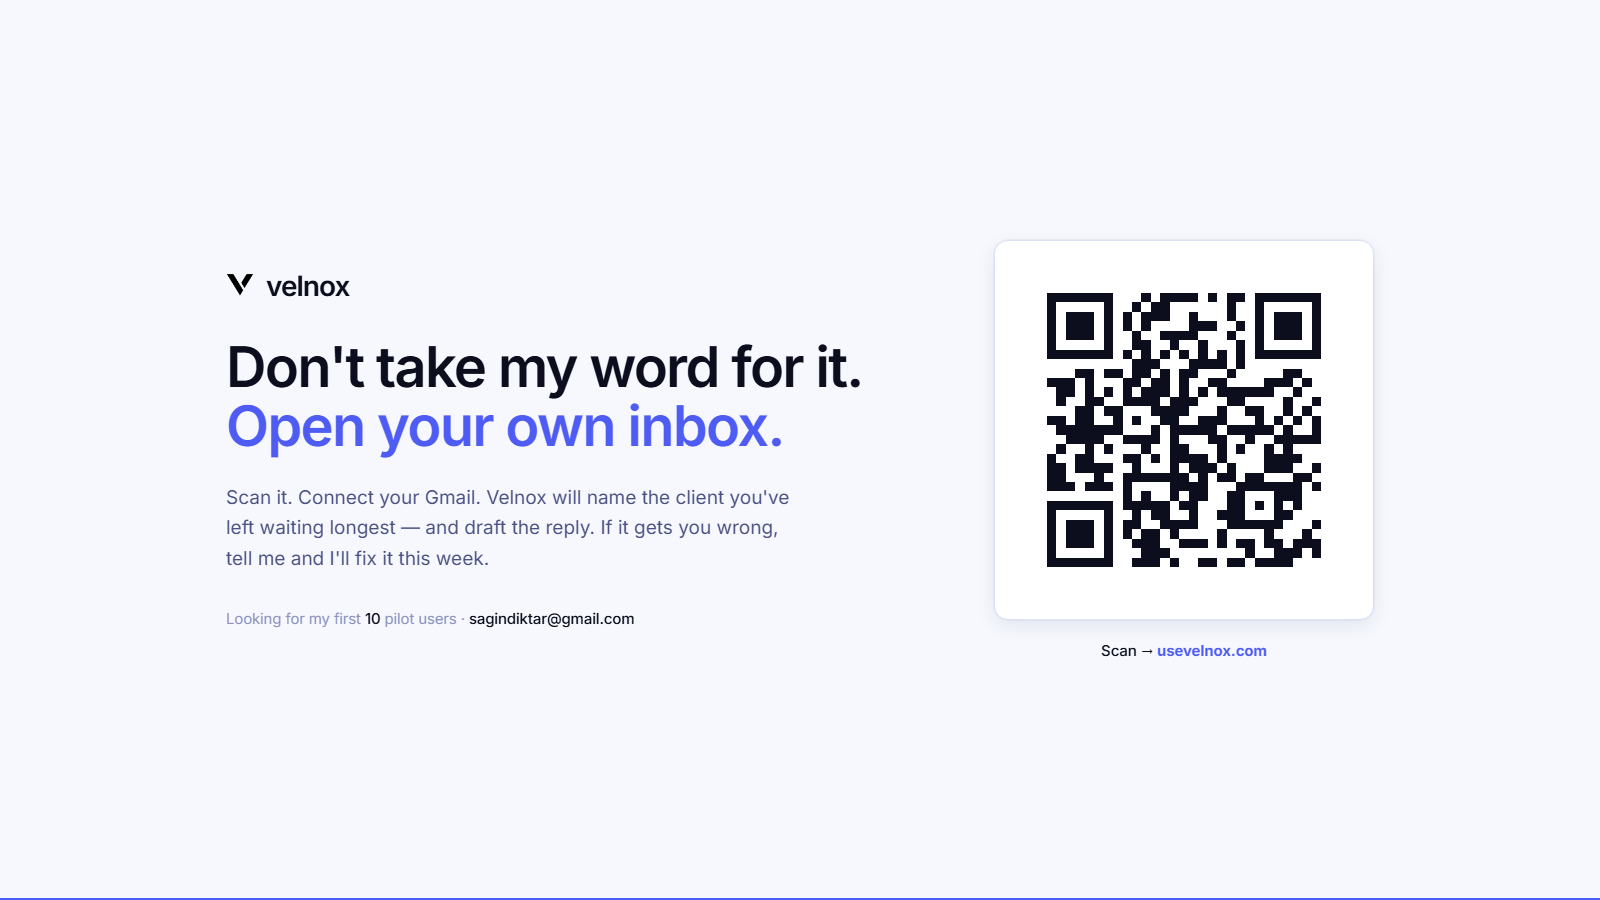
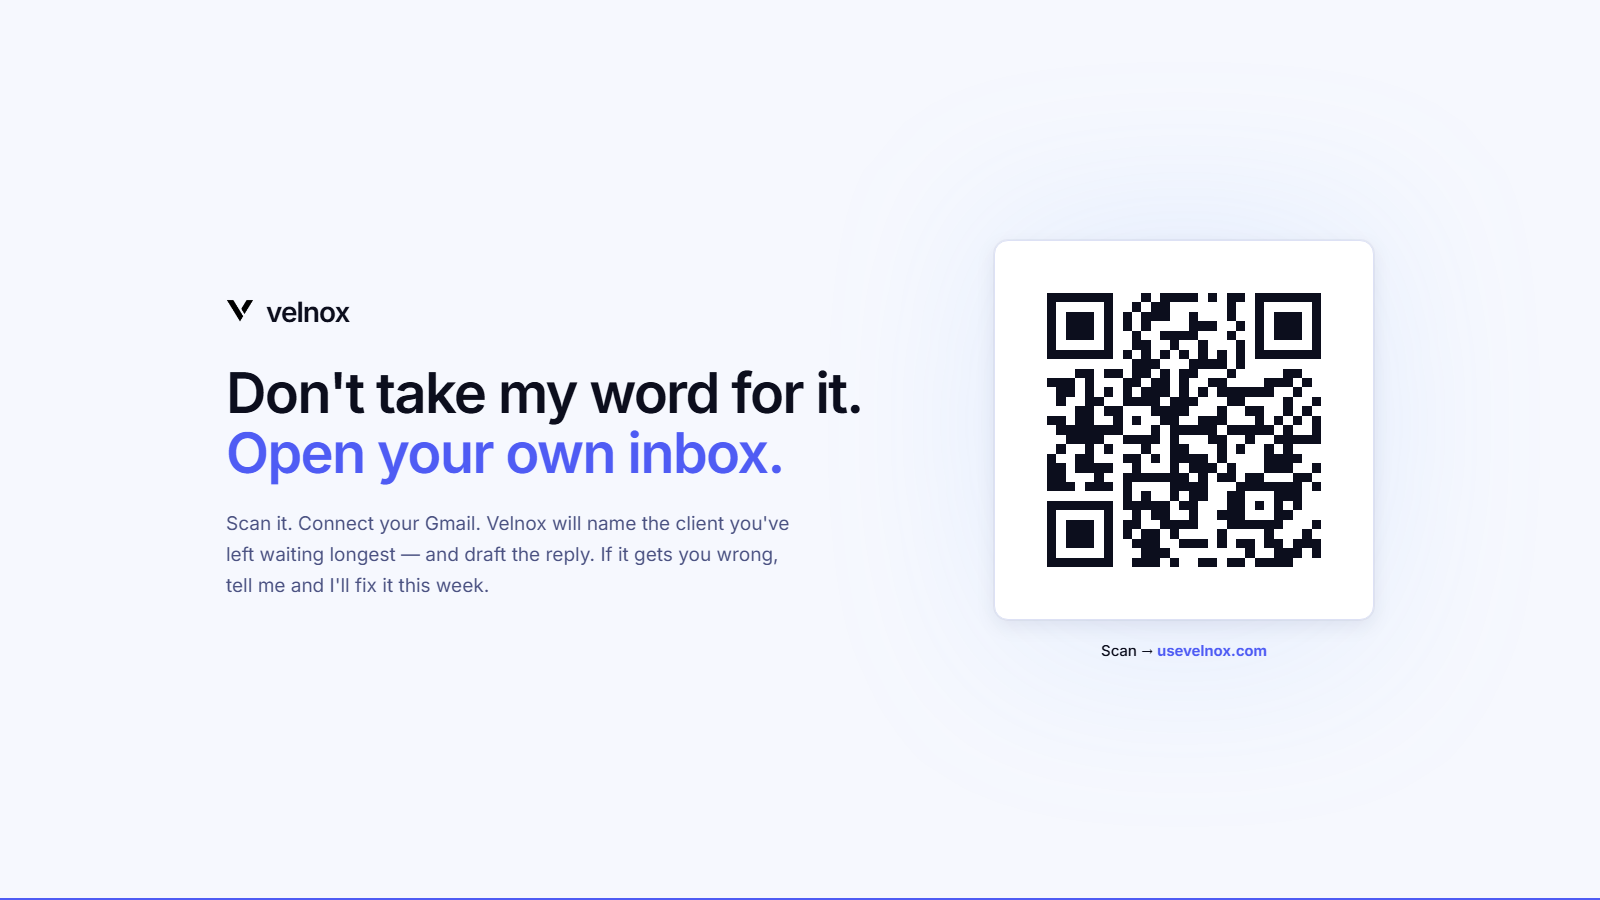
Rebuild slide 2's diagram; give the deck a recurring visual motif
Slide 2 read as neither screenshot nor diagram — five labelled rows, an ellipsis
and a hot row, all of which had to be parsed before the point arrived. It now
argues by quantity: 26 anonymous grey rows above one red one. Nothing above the
red row says anything, because the point is that none of it is worth saying
anything about, and the only words in the pile are on the row that matters.
Rows are script-built from a fixed width table (no Math.random, so the exported
PNGs and the live page can't drift apart).

Backgrounds: rather than a different decoration per slide — which is how decks
come to look like templates — the skyline already on slide 1 becomes the deck's
one recurring motif, returning at a different crop, scale, opacity and facing.
Slide 2 gets it low and pale under the pile; slide 5 gets it mirrored behind the
founder, where it reads as the Astana the role line already names. Slides 3 and
6 get HeroMedia's blue wash behind the artefact each is about. Both elements are
lifted from the site, not invented for the deck.

The skyline is now built per instance because its gradient/pattern/filter ids
must be unique; two copies sharing an id renders the second against the first's
defs. The wash needed its own stops: HeroMedia fades to zero at 76%, which is
right behind a dark video but terminates as a visible circle against #F6F8FE.

Also drops, per review: "Oldest: 12 days", "21 more — newsletters…", "Roughly 1
[…]

Changed region(s): [[0.125, 0.3111, 0.5312, 0.6533], [0.1562, 0.6844, 0.4062, 0.7156]]

diff --git a/deck/index.html b/deck/index.html
@@ -158,55 +158,73 @@ html, body {
 /* ═══ Slide 1 — title ══════════════════════════════════════════════════════ */
 #s1 { display: grid; place-items: center; text-align: center; }
 #s1 .inner { position: relative; z-index: 1; max-width: 1040px; padding-bottom: 60px; }
-.skyline { position: absolute; left: 0; right: 0; bottom: 0; height: 400px; pointer-events: none; }
+.skyline { position: absolute; left: 0; right: 0; bottom: 0; height: 400px; pointer-events: none; z-index: 0; }
 .skyline svg { display: block; width: 100%; height: 100%; }
 
-/* ═══ Slide 2 — problem ════════════════════════════════════════════════════ */
+/* The motif's other appearances. Slide 1 establishes the city at full height;
+   these are the same skyline seen from further off. Different height = different
+   crop (preserveAspectRatio slice), and slide 5 is mirrored, so no two slides
+   show the same picture.
+   --- slide 2: low and pale, so the pile has somewhere to sit
+   --- slide 5: mirrored and paler still, behind the founder — Astana, the city
+       the role line already names */
+#s2 .skyline { height: 210px; opacity: 0.5; }
+#s5 .skyline { height: 300px; opacity: 0.34; transform: scaleX(-1); }
+
+/* The site's ambience (HeroMedia.tsx), reused as slide furniture rather than as
+   decoration invented for the deck: it is what already sits behind the product
+   on the landing page. Slide 4 has it around the video; 3 and 6 get it behind
+   the artefact the slide is about. */
+/* HeroMedia's stops run to zero at 76%, which is right behind a dark video and
+   wrong here: against #F6F8FE the residual tint is still perceptible at that
+   stop, so the falloff terminates as a visible circle rather than as air. Peak
+   halved and the fade stretched to 100% so there is nowhere for an edge to be. */
+.wash {
+  position: absolute;
+  z-index: 0; pointer-events: none;
+  background: radial-gradient(72% 70% at 50% 45%,
+    rgba(79,92,244,0.15), rgba(96,165,250,0.08) 45%, rgba(124,192,255,0) 100%);
+  filter: blur(64px);
+}
+
+/* ═══ Slide 2 — problem ════════════════════════════════════════════════════
+   The earlier version was five labelled rows, an ellipsis and one hot row. It
+   read as neither screenshot nor diagram — you had to parse it to get the joke.
+   This one argues by quantity instead of by words: 26 anonymous grey rows, one
+   red. Nothing above the red row says anything, because the whole point is that
+   none of it is worth saying anything about. The only words in the pile are on
+   the row that matters. */
 #s2 { padding: 0 110px; display: flex; flex-direction: column; justify-content: center; }
-.stack {
-  width: 760px;
+.pile {
+  width: 640px;
   border: 1px solid var(--border);
   border-radius: var(--radius-lg);
   background: var(--bg-surface);
   overflow: hidden;
   box-shadow: var(--shadow-md);
 }
-.stack-head {
+.pile-head {
   display: flex; align-items: center; justify-content: space-between;
-  padding: 13px 18px;
+  padding: 12px 18px;
   border-bottom: 1px solid var(--border-light);
   background: var(--bg-subtle);
 }
-.row {
-  display: flex; align-items: center; gap: 13px;
-  padding: 12px 18px;
-  border-bottom: 1px solid var(--border-light);
-}
-.dot { width: 26px; height: 26px; border-radius: 100px; background: var(--bg-elevated); flex-shrink: 0; }
-.row-t { flex: 1; font-size: 14.5px; color: var(--text-muted); font-weight: 500; }
-.row-x { font-size: 12.5px; color: var(--text-muted); font-variant-numeric: tabular-nums; }
+.pile-rows { padding: 7px 0 3px; }
+.prow { display: flex; align-items: center; gap: 11px; padding: 4px 18px; }
+.prow .d { width: 12px; height: 12px; border-radius: 100px; background: var(--bg-elevated); flex-shrink: 0; }
+.prow .b { height: 5px; border-radius: 100px; background: var(--bg-elevated); }
 
-.gap {
-  padding: 11px 18px;
-  font-size: 12.5px;
-  color: var(--text-muted);
-  border-bottom: 1px solid var(--border-light);
-  background: repeating-linear-gradient(
-    -45deg, transparent, transparent 6px,
-    rgba(141,147,190,0.05) 6px, rgba(141,147,190,0.05) 12px
-  );
-}
-
-/* The one loud row. Everything above it is deliberately quiet so this lands. */
-.row-hot {
+/* The one loud row. Everything above it is deliberately mute so this lands. */
+.prow-hot {
   display: flex; align-items: center; gap: 13px;
-  padding: 17px 18px;
+  padding: 16px 18px;
   background: var(--hot-dim);
+  border-top: 1px solid var(--hot-border);
   border-left: 3px solid var(--hot);
 }
 .dot-hot { width: 30px; height: 30px; border-radius: 100px; background: var(--hot); opacity: 0.85; flex-shrink: 0; }
-.row-hot .n { display: block; font-size: 16px; font-weight: 600; color: var(--text-primary); }
-.row-hot .s { display: block; font-size: 13.5px; color: var(--text-secondary); margin-top: 3px; }
+.prow-hot .n { display: block; font-size: 16px; font-weight: 600; color: var(--text-primary); }
+.prow-hot .s { display: block; font-size: 13.5px; color: var(--text-secondary); margin-top: 3px; }
 .chip-hot {
   font-size: 12px; font-weight: 600; color: var(--hot);
   background: var(--bg-surface);
@@ -519,32 +537,7 @@ html, body {
 
   <!-- ════ 1 · Title ════════════════════════════════════════════════════ -->
   <section class="slide" id="s1" data-active>
-    <div class="skyline" aria-hidden="true">
-      <svg width="100%" height="100%" viewBox="0 0 1600 400" preserveAspectRatio="xMidYMax slice" xmlns="http://www.w3.org/2000/svg">
-        <defs>
-          <pattern id="skyWin" width="14" height="20" patternUnits="userSpaceOnUse">
-            <rect x="4" y="5" width="4" height="9" fill="#FFFFFF" opacity="0.34" />
-          </pattern>
-          <linearGradient id="skyHazeTop" x1="0" y1="0" x2="0" y2="1">
-            <stop offset="0" stop-color="#F6F8FE" stop-opacity="1" />
-            <stop offset="1" stop-color="#F6F8FE" stop-opacity="0" />
-          </linearGradient>
-          <linearGradient id="skyHazeBase" x1="0" y1="0" x2="0" y2="1">
-            <stop offset="0" stop-color="#F6F8FE" stop-opacity="0" />
-            <stop offset="0.72" stop-color="#F6F8FE" stop-opacity="0.9" />
-            <stop offset="1" stop-color="#F6F8FE" stop-opacity="1" />
-          </linearGradient>
-          <filter id="skyBlur" x="-4%" y="-4%" width="108%" height="108%">
-            <feGaussianBlur stdDeviation="1.6" />
-          </filter>
-        </defs>
-        <path id="far" fill="#E4E8F8" filter="url(#skyBlur)" />
-        <path id="near1" fill="#D9DEF3" />
-        <path id="near2" fill="url(#skyWin)" />
-        <rect x="0" y="150" width="1600" height="130" fill="url(#skyHazeTop)" opacity="0.55" />
-        <rect x="0" y="268" width="1600" height="132" fill="url(#skyHazeBase)" />
-      </svg>
-    </div>
+    <div class="skyline" data-sky aria-hidden="true"></div>
 
     <div class="inner">
       <div class="r brand" style="gap:14px; margin-bottom:44px;">
@@ -565,29 +558,26 @@ html, body {
 
   <!-- ════ 2 · Problem ══════════════════════════════════════════════════ -->
   <section class="slide" id="s2">
-    <h2 class="r display-title" style="font-size:56px; margin-bottom:44px;">
+    <div class="skyline" data-sky aria-hidden="true"></div>
+
+    <h2 class="r display-title" style="font-size:56px; margin-bottom:40px; position:relative; z-index:1;">
       Gmail sorts by time. <span class="muted-tail">Your clients don't.</span>
     </h2>
 
-    <div class="r" style="display:grid; grid-template-columns:720px 1fr; gap:80px; align-items:center;">
+    <div class="r" style="display:grid; grid-template-columns:640px 1fr; gap:90px; align-items:center; position:relative; z-index:1;">
 
-      <!-- Diagram. NOT a screenshot: no Gmail chrome, no real people, archetypal
-           rows only. It illustrates the mechanism, it does not claim to be data. -->
-      <div class="stack">
-        <div class="stack-head">
-          <span class="label">Sorted by date</span>
-          <span class="label" style="color:var(--text-muted); opacity:0.7;">newest first</span>
+      <!-- Diagram, not a screenshot: no Gmail chrome, no real people. It shows a
+           mechanism; it does not claim to be data. Rows are injected by script —
+           26 hand-tuned widths, no randomness, so every render is identical. -->
+      <div class="pile">
+        <div class="pile-head">
+          <span class="label">Your inbox, sorted by date</span>
+          <span class="label" style="opacity:0.7;">newest first ↓</span>
         </div>
 
-        <div class="row"><span class="dot"></span><span class="row-t">Newsletter</span><span class="row-x">2 min</span></div>
-        <div class="row"><span class="dot"></span><span class="row-t">Calendar invite</span><span class="row-x">18 min</span></div>
-        <div class="row"><span class="dot"></span><span class="row-t">Promotion</span><span class="row-x">1 hr</span></div>
-        <div class="row"><span class="dot"></span><span class="row-t">Receipt</span><span class="row-x">3 hr</span></div>
-        <div class="row"><span class="dot"></span><span class="row-t">Social notification</span><span class="row-x">5 hr</span></div>
+        <div class="pile-rows" data-pile></div>
 
-        <div class="gap">21 more — newsletters, promotions, receipts</div>
-
-        <div class="row-hot">
+        <div class="prow-hot">
           <span class="dot-hot"></span>
           <span style="flex:1;">
             <span class="n">The client who pays you</span>
@@ -600,7 +590,6 @@ html, body {
       <div class="proof">
         <div class="k">127</div>
         <div class="v">overdue replies in my own inbox,<br />right now.</div>
-        <div class="w">Oldest: 12 days.</div>
       </div>
 
     </div>
@@ -624,7 +613,6 @@ html, body {
           <b>112 signed up</b>
         </div>
         <div class="conv-bar"><i></i></div>
-        <div class="conv-foot">Roughly 1 in 5 who saw the page made an account.</div>
       </div>
 
       <div class="r minor">
@@ -633,6 +621,8 @@ html, body {
         <div><div class="v">1</div><div class="k">paying · first $12</div></div>
       </div>
     </div>
+
+    <div class="wash" style="left:600px; right:-40px; top:60px; bottom:60px;" aria-hidden="true"></div>
 
     <!-- The page those 500 visitors landed on, shot from production at 2×.
          The ring sits on the real CTA they really clicked. -->
@@ -665,7 +655,9 @@ html, body {
 
   <!-- ════ 5 · Founder ══════════════════════════════════════════════════ -->
   <section class="slide" id="s5">
-    <div class="r portrait">
+    <div class="skyline" data-sky aria-hidden="true"></div>
+
+    <div class="r portrait" style="z-index:1;">
       <img id="founder-img" src="founder.jpg" alt="Amirkhan Sagyndyk" style="display:none;" />
       <div class="slot" id="founder-slot">
         <span class="mono">V</span>
@@ -673,7 +665,7 @@ html, body {
       </div>
     </div>
 
-    <div>
+    <div style="position:relative; z-index:1;">
       <h2 class="r display-title" style="font-size:46px; margin-bottom:7px;">Amirkhan Sagyndyk</h2>
       <p class="r" style="font-size:17px; color:var(--text-secondary); margin-bottom:32px;">
         Founder, Velnox · Astana, Kazakhstan
@@ -713,7 +705,6 @@ html, body {
             Zero → Legend, Dota 2 <span class="m">from unranked</span>
           </li>
         </ul>
-        <p class="s5-note">Same stubbornness that got Velnox into production.</p>
       </div>
     </div>
   </section>
@@ -737,23 +728,20 @@ html, body {
         I'll fix it this week.
       </p>
 
-      <p class="r s6-mail">
-        Looking for my first <b id="cnt">10</b> pilot users ·
-        <b>sagindiktar@gmail.com</b>
-      </p>
     </div>
 
     <!-- Real QR, real destination. Generated with `npx qrcode -e H` and inlined
          so the deck stays one self-contained file that works with no network. -->
-    <div class="r">
-      <div class="qr-card">
+    <div class="r" style="position:relative;">
+      <div class="wash" style="inset:-70px -60px;" aria-hidden="true"></div>
+      <div class="qr-card" style="position:relative; z-index:1;">
         <div class="qr-ring" aria-hidden="true"></div>
         <svg viewBox="0 0 37 37" shape-rendering="crispEdges" xmlns="http://www.w3.org/2000/svg" role="img" aria-label="QR code to usevelnox.com">
           <path fill="#FFFFFF" d="M0 0h37v37H0z"/>
           <path stroke="#0C0E1D" d="M4 4.5h7m3 0h1m1 0h4m1 0h1m1 0h2m1 0h7M4 5.5h1m5 0h1m2 0h1m1 0h2m6 0h1m2 0h1m5 0h1M4 6.5h1m1 0h3m1 0h1m1 0h1m1 0h3m2 0h1m3 0h1m2 0h1m1 0h3m1 0h1M4 7.5h1m1 0h3m1 0h1m1 0h1m1 0h1m4 0h3m2 0h1m1 0h1m1 0h3m1 0h1M4 8.5h1m1 0h3m1 0h1m2 0h1m2 0h4m3 0h1m2 0h1m1 0h3m1 0h1M4 9.5h1m5 0h1m2 0h2m2 0h1m2 0h1m3 0h1m1 0h1m5 0h1M4 10.5h7m1 0h1m1 0h1m1 0h1m1 0h1m1 0h1m1 0h1m1 0h1m1 0h7M13 11.5h3m3 0h4m1 0h1M7 12.5h2m1 0h2m1 0h2m1 0h1m1 0h2m3 0h1m5 0h2M4 13.5h3m1 0h1m3 0h2m1 0h2m1 0h1m2 0h2m4 0h3m1 0h1M5 14.5h2m1 0h1m1 0h1m1 0h1m1 0h3m1 0h1m1 0h1m1 0h6m2 0h1M5 15.5h1m2 0h2m2 0h4m1 0h3m3 0h2m4 0h1m2 0h1M7 16.5h2m1 0h2m3 0h4m3 0h1m2 0h2m2 0h1m1 0h1M4 17.5h2m1 0h2m2 0h1m1 0h1m2 0h2m2 0h3m3 0h1m1 0h1m1 0h1m1 0h1M5 18.5h7m3 0h1m1 0h5m1 0h5m1 0h1m2 0h1M6 19.5h4m2 0h4m1 0h1m3 0h2m2 0h1m2 0h5M5 20.5h1m2 0h1m1 0h1m3 0h1m2 0h2m3 0h1m1 0h1m2 0h1m1 0h1M4 21.5h1m2 0h2m3 0h2m1 0h1m1 0h4m1 0h1m4 0h4M4 22.5h2m1 0h4m2 0h1m3 0h1m1 0h3m1 0h1m3 0h3m2 0h1M4 23.5h2m3 0h1m2 0h7m1 0h1m1 0h2m1 0h2m3 0h2M4 24.5h3m1 0h3m1 0h1m4 0h4m3 0h7m1 0h1M12 25.5h1m1 0h1m2 0h1m1 0h2m2 0h2m3 0h3M4 26.5h7m1 0h5m1 0h2m3 0h2m1 0h1m1 0h1m1 0h1M4 27.5h1m5 0h1m2 0h1m1 0h2m2 0h1m2 0h3m3 0h2M4 28.5h1m1 0h3m1 0h1m1 0h2m2 0h4m3 0h6m3 0h1M4 29.5h1m1 0h3m1 0h1m1 0h1m1 0h2m1 0h1m4 0h1m4 0h1m3 0h1M4 30.5h1m1 0h3m1 0h1m2 0h3m2 0h3m1 0h1m1 0h2m1 0h2m1 0h3M4 31.5h1m5 0h1m3 0h3m8 0h1m2 0h3m1 0h1M4 32.5h7m2 0h3m1 0h1m2 0h2m1 0h2m1 0h4"/>
         </svg>
       </div>
-      <p class="qr-cap">Scan → <b>usevelnox.com</b></p>
+      <p class="qr-cap" style="position:relative; z-index:1;">Scan → <b>usevelnox.com</b></p>
     </div>
   </section>
 
@@ -764,13 +752,52 @@ html, body {
 <div id="hint">← → to move · F for fullscreen</div>
 
 <script>
-/* Skyline paths — HeroSkyline.tsx, verbatim. Injected rather than inlined to
-   keep the markup above readable. */
-document.getElementById('far').setAttribute('d',
-  'M0 400 V269 h34 v-18 h27 v18 h21 V236 h38 v-24 h12 v24 h20 v33 h30 V218 h44 v51 h24 v-92 h10 l4 -14 4 14 h10 v92 h27 V241 h36 v-30 h26 v30 h18 v28 h33 V204 h12 v-26 h8 l3 -12 3 12 h8 v26 h12 v65 h29 v-38 h40 v38 h22 V222 h38 v47 h25 v-71 h30 v-19 h9 l3 -16 3 16 h9 v19 h30 v71 h24 V235 h42 v34 h20 v-56 h36 v56 h26 V214 h12 v-25 h7 l3 -13 3 13 h7 v25 h12 v55 h31 v-31 h40 v31 h21 V226 h38 v43 h26 v-64 h28 v-20 h8 l3 -15 3 15 h8 v20 h28 v64 h24 V241 h38 v28 h20 v-49 h34 v49 h27 V219 h44 v50 h22 v-31 h36 v31 h24 V245 h32 v24 h22 v-18 h30 v18 h21 v155 Z');
-var NEAR = 'M0 400 V308 h44 v-26 h34 v26 h20 V262 h12 v-16 h32 v16 h12 v46 h26 V241 h10 v-18 h44 v18 h10 v67 h30 v-38 h14 V216 h6 l3 -38 3 38 h6 v54 h14 v38 h26 V273 h48 v-42 h12 v42 h14 v35 h30 v-62 h10 v-25 h15 l3 -20 3 20 h15 v25 h10 v62 h24 v-27 h46 v27 h22 V254 h12 v-20 h40 v20 h12 v54 h30 v-83 h8 v-18 h13 l2 -30 2 30 h13 v18 h8 v83 h26 v-33 h52 v33 h20 V259 h12 v-24 h38 v24 h12 v49 h30 v-70 h10 v-22 h14 l3 -26 3 26 h14 v22 h10 v70 h24 v-30 h48 v30 h22 V251 h12 v-19 h42 v19 h12 v57 h28 v-40 h50 v40 h22 V266 h44 v42 h26 v-24 h40 v24 h20 v-30 h38 v122 Z';
-document.getElementById('near1').setAttribute('d', NEAR);
-document.getElementById('near2').setAttribute('d', NEAR);
+/* Skyline paths — HeroSkyline.tsx, verbatim. The deck's one recurring motif:
+   rather than give every slide a different decoration (which is how decks start
+   looking like templates), the same city returns at a different crop, scale,
+   opacity and facing on each slide it appears. One world, several angles.
+   Built by script per instance because the gradient/pattern/filter ids have to
+   be unique — two copies sharing an id is invalid and the second one renders
+   against the first one's defs. */
+var FAR_D = 'M0 400 V269 h34 v-18 h27 v18 h21 V236 h38 v-24 h12 v24 h20 v33 h30 V218 h44 v51 h24 v-92 h10 l4 -14 4 14 h10 v92 h27 V241 h36 v-30 h26 v30 h18 v28 h33 V204 h12 v-26 h8 l3 -12 3 12 h8 v26 h12 v65 h29 v-38 h40 v38 h22 V222 h38 v47 h25 v-71 h30 v-19 h9 l3 -16 3 16 h9 v19 h30 v71 h24 V235 h42 v34 h20 v-56 h36 v56 h26 V214 h12 v-25 h7 l3 -13 3 13 h7 v25 h12 v55 h31 v-31 h40 v31 h21 V226 h38 v43 h26 v-64 h28 v-20 h8 l3 -15 3 15 h8 v20 h28 v64 h24 V241 h38 v28 h20 v-49 h34 v49 h27 V219 h44 v50 h22 v-31 h36 v31 h24 V245 h32 v24 h22 v-18 h30 v18 h21 v155 Z';
+var NEAR_D = 'M0 400 V308 h44 v-26 h34 v26 h20 V262 h12 v-16 h32 v16 h12 v46 h26 V241 h10 v-18 h44 v18 h10 v67 h30 v-38 h14 V216 h6 l3 -38 3 38 h6 v54 h14 v38 h26 V273 h48 v-42 h12 v42 h14 v35 h30 v-62 h10 v-25 h15 l3 -20 3 20 h15 v25 h10 v62 h24 v-27 h46 v27 h22 V254 h12 v-20 h40 v20 h12 v54 h30 v-83 h8 v-18 h13 l2 -30 2 30 h13 v18 h8 v83 h26 v-33 h52 v33 h20 V259 h12 v-24 h38 v24 h12 v49 h30 v-70 h10 v-22 h14 l3 -26 3 26 h14 v22 h10 v70 h24 v-30 h48 v30 h22 V251 h12 v-19 h42 v19 h12 v57 h28 v-40 h50 v40 h22 V266 h44 v42 h26 v-24 h40 v24 h20 v-30 h38 v122 Z';
+
+function skySVG(n) {
+  var u = 'sky' + n;
+  return '<svg width="100%" height="100%" viewBox="0 0 1600 400" preserveAspectRatio="xMidYMax slice" xmlns="http://www.w3.org/2000/svg">'
+    + '<defs>'
+    +   '<pattern id="w' + u + '" width="14" height="20" patternUnits="userSpaceOnUse">'
+    +     '<rect x="4" y="5" width="4" height="9" fill="#FFFFFF" opacity="0.34"/></pattern>'
+    +   '<linearGradient id="t' + u + '" x1="0" y1="0" x2="0" y2="1">'
+    +     '<stop offset="0" stop-color="#F6F8FE" stop-opacity="1"/>'
+    +     '<stop offset="1" stop-color="#F6F8FE" stop-opacity="0"/></linearGradient>'
+    +   '<linearGradient id="b' + u + '" x1="0" y1="0" x2="0" y2="1">'
+    +     '<stop offset="0" stop-color="#F6F8FE" stop-opacity="0"/>'
+    +     '<stop offset="0.72" stop-color="#F6F8FE" stop-opacity="0.9"/>'
+    +     '<stop offset="1" stop-color="#F6F8FE" stop-opacity="1"/></linearGradient>'
+    +   '<filter id="f' + u + '" x="-4%" y="-4%" width="108%" height="108%">'
+    +     '<feGaussianBlur stdDeviation="1.6"/></filter>'
+    + '</defs>'
+    + '<path fill="#E4E8F8" filter="url(#f' + u + ')" d="' + FAR_D + '"/>'
+    + '<path fill="#D9DEF3" d="' + NEAR_D + '"/>'
+    + '<path fill="url(#w' + u + ')" d="' + NEAR_D + '"/>'
+    + '<rect x="0" y="150" width="1600" height="130" fill="url(#t' + u + ')" opacity="0.55"/>'
+    + '<rect x="0" y="268" width="1600" height="132" fill="url(#b' + u + ')"/>'
+    + '</svg>';
+}
+Array.prototype.forEach.call(document.querySelectorAll('[data-sky]'), function (el, i) {
+  el.innerHTML = skySVG(i);
+});
+
+/* The pile on slide 2. Widths are hand-tuned and fixed — Math.random would give
+   a different deck on every render and the exported PNGs would never match the
+   live page. 26 rows: enough that nobody counts them, few enough to fit. */
+var PILE_W = [78, 52, 91, 44, 67, 83, 38, 72, 60, 88, 47, 75, 55, 94, 41, 69, 81, 50, 86, 63, 43, 77, 58, 90, 48, 71];
+Array.prototype.forEach.call(document.querySelectorAll('[data-pile]'), function (el) {
+  el.innerHTML = PILE_W.map(function (w) {
+    return '<div class="prow"><span class="d"></span><span class="b" style="width:' + w + '%"></span></div>';
+  }).join('');
+});
 
 /* Founder photo: activate the frame only if the real file is actually there.
    No stock face ever renders — the slot placeholder is the honest fallback.
@@ -816,23 +843,6 @@ function go(n) {
   if (slides[i].id === 's4') { video.currentTime = 0; video.play().catch(function(){}); }
   else { video.pause(); }
 
-  if (slides[i].id === 's6') countUp();
-}
-
-/* The ask counts up as the slide lands. It is the one number the room has to
-   carry out of the deck, and a number that moves is a number that gets read.
-   Cubic ease-out to match the deck's --ease. */
-var cnt = document.getElementById('cnt');
-function countUp() {
-  if (matchMedia('(prefers-reduced-motion: reduce)').matches) { cnt.textContent = '10'; return; }
-  var t0 = null;
-  function step(ts) {
-    if (t0 === null) t0 = ts;
-    var p = Math.min((ts - t0) / 780, 1);
-    cnt.textContent = Math.round((1 - Math.pow(1 - p, 3)) * 10);
-    if (p < 1) requestAnimationFrame(step);
-  }
-  requestAnimationFrame(step);
 }
 
 document.addEventListener('keydown', function (e) {
